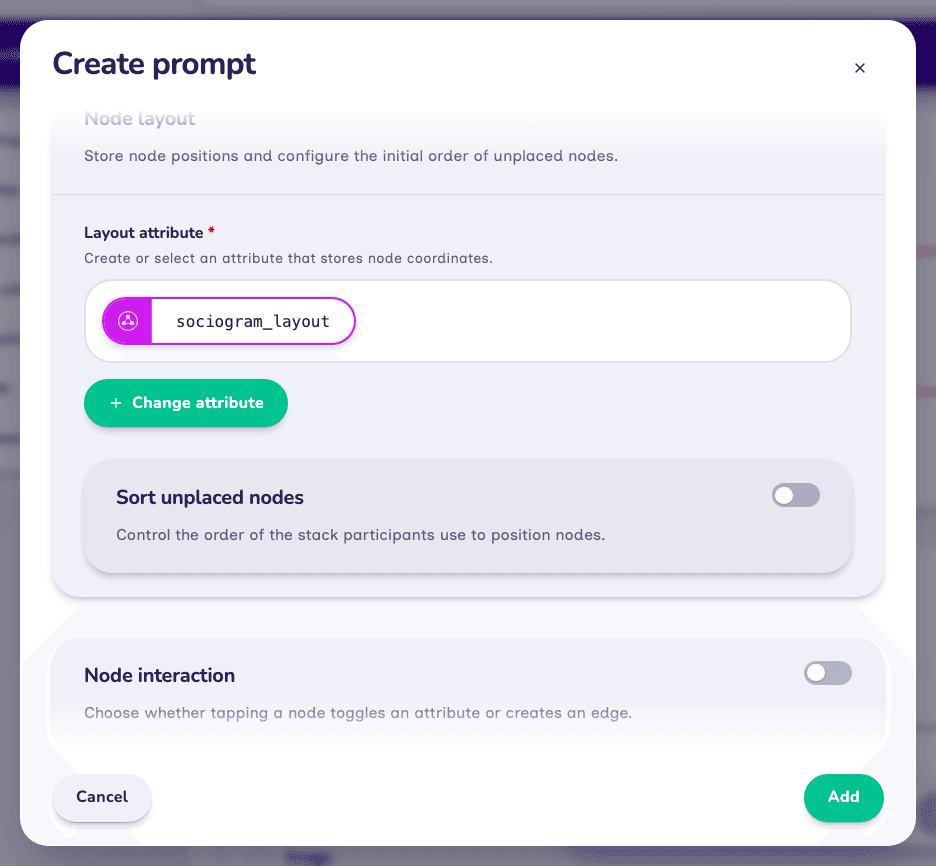
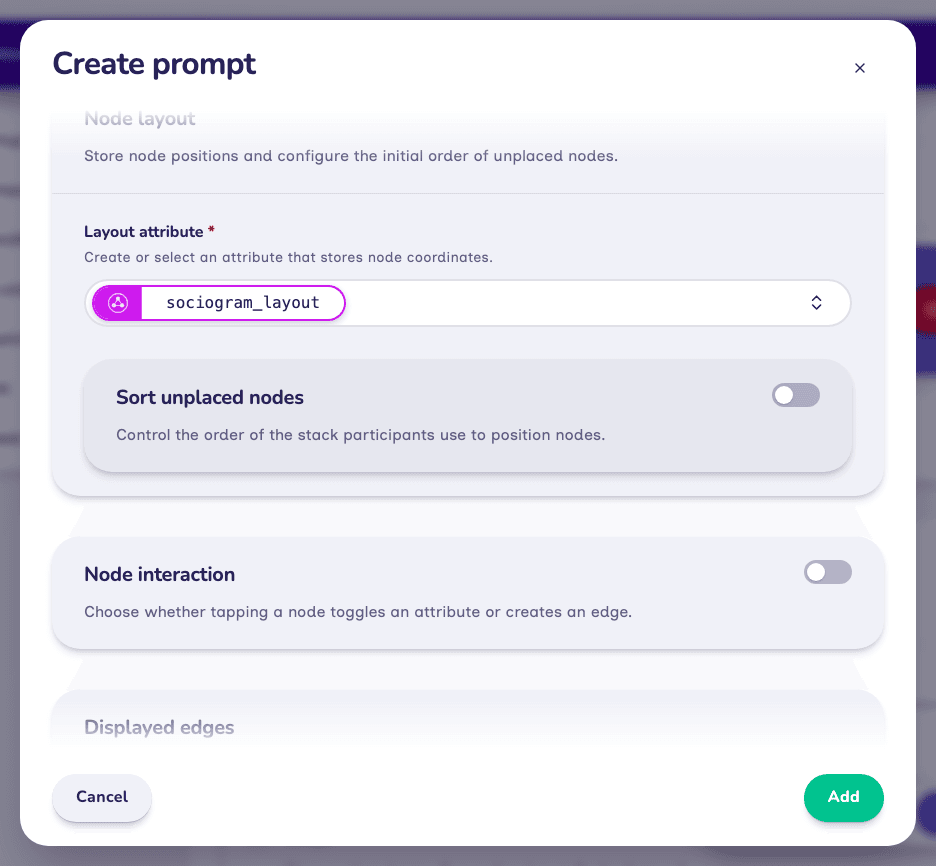
docs: recapture the screenshots that showed the old attribute picker
Nine Architect captures, retaken from this branch's build driving the
Sample Protocol with the previous set's framing and scale: the select box
replaces the pill and Change attribute button, and the Narrative preset
pair and stage editor show the preset filter and no stage filter.

diff --git a/apps/documentation/SCREENSHOTS_TO_REGENERATE.md b/apps/documentation/SCREENSHOTS_TO_REGENERATE.md
@@ -50,17 +50,12 @@ dialog, and a **Summary** tab stage listing a text in every language.
 ## Narrative preset filters (schema 9)
 
 Schema 9 gives each Narrative preset a filter of its own and removes the
-stage's filter. These Architect captures of the Building a protocol tutorial
-predate that work (the Architect Classic captures are still right):
-
-| Image              | Page                                                    | What changed                                                                              |
-| ------------------ | ------------------------------------------------------- | ----------------------------------------------------------------------------------------- |
-| `edit-preset.png`  | `design-protocols/tutorials/building-a-protocol.en.mdx` | The preset dialog has a **Preset filter** group between the layout and grouping settings. |
-| `edit-preset2.png` | `design-protocols/tutorials/building-a-protocol.en.mdx` | Same dialog, further down. Recapture with `edit-preset.png` so the two still join up.     |
-| `narrative.png`    | `design-protocols/tutorials/building-a-protocol.en.mdx` | The Narrative stage editor no longer has a stage filter section.                          |
-
-The Narrative interface page (`interface-documentation/narrative.en.md`) has no
-capture of the preset filter yet; one would help.
+stage's filter. The Building a protocol tutorial's captures of the Narrative
+stage editor and the preset dialog (`architect-guide/narrative.png`,
+`architect-guide/edit-preset.png` and `architect-guide/edit-preset2.png`) were
+recaptured in November 2026 and show this. The Narrative interface page
+(`interface-documentation/narrative.en.md`) has no capture of the preset filter
+yet; one would help.
 
 ## Stage introduction panels removed (schema 9)
 
@@ -371,22 +366,3 @@ else. Logic is drawn as a pill of its own colour and icon. These images on
 | `piped-text/value-in-question.png`      | Same toolbar change: both toolbars in frame lack the **Insert logic** button.                                                                                                                       | ✅ Recaptured    |
 | `piped-text/pair-prompt.png`            | Same toolbar change: the toolbar lacks the **Insert logic** button.                                                                                                                                 | ✅ Recaptured    |
 | (new) `piped-text/if-block.png`         | Not yet captured: an open If block with an **If:** row, an **Otherwise** row, **Edit rules** and **Add else if**, for the new Logic section.                                                        | Not yet captured |
-
-## Attribute picker (schema 9)
-
-The attribute control is now a select box. It shows the chosen attribute's pill
-inside the box (or **Select an attribute** while it is empty) and has no
-**Change attribute** button below it. Clicking it opens a list with a search
-box under the field, and attributes that can't be used there are listed under
-**Not available here**. These Architect captures show the old pill and
-**Change attribute** button:
-
-| Image                                                         | Page                                                              |
-| ------------------------------------------------------------- | ----------------------------------------------------------------- |
-| `architect-guide/form-fields.png`                             | `design-protocols/tutorials/building-a-protocol.en.mdx`           |
-| `architect-guide/sociogram-layout.png`                        | `design-protocols/tutorials/building-a-protocol.en.mdx`           |
-| `architect-guide/variable-toggling.png`                       | `design-protocols/tutorials/building-a-protocol.en.mdx`           |
-| `architect-guide/followup.png`                                | `design-protocols/tutorials/building-a-protocol.en.mdx`           |
-| `architect-guide/edit-preset.png`                             | `design-protocols/tutorials/building-a-protocol.en.mdx`           |
-| `key-concepts/forms/field.png`                                | `design-protocols/key-concepts/forms.en.mdx`                      |
-| `interface-documentation/categorical-bin/architect-other.png` | `design-protocols/interface-documentation/categorical-bin.en.mdx` |

diff --git a/.changeset/docs-attribute-select.md b/.changeset/docs-attribute-select.md
@@ -2,4 +2,4 @@
 '@codaco/documentation': patch
 ---
 
-The Building a Protocol tutorial and the Variables, Codebook and Forms pages describe Architect's new attribute select box: searching for an attribute, creating one from the list, and the attributes listed under "Not available here". They also say that attributes are renamed on the Codebook page. Updated in English, Spanish and French.
+The Building a Protocol tutorial and the Variables, Codebook and Forms pages describe Architect's new attribute select box: searching for an attribute, creating one from the list, and the attributes listed under "Not available here". They also say that attributes are renamed on the Codebook page. Updated in English, Spanish and French. The screenshots that showed the old attribute field are recaptured, and the Narrative preset screenshots now show the preset filter.
